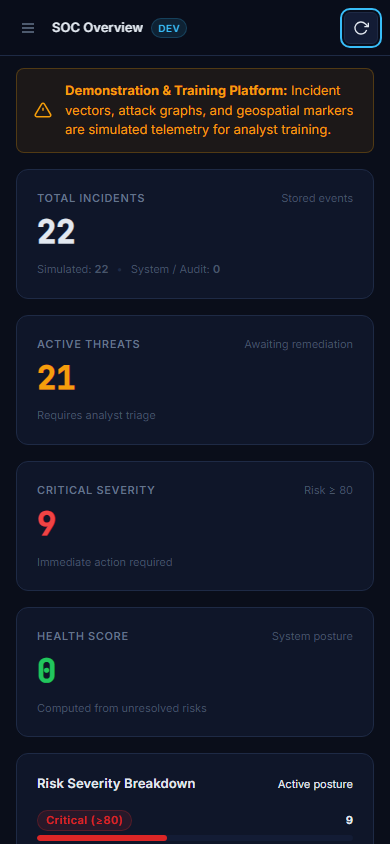
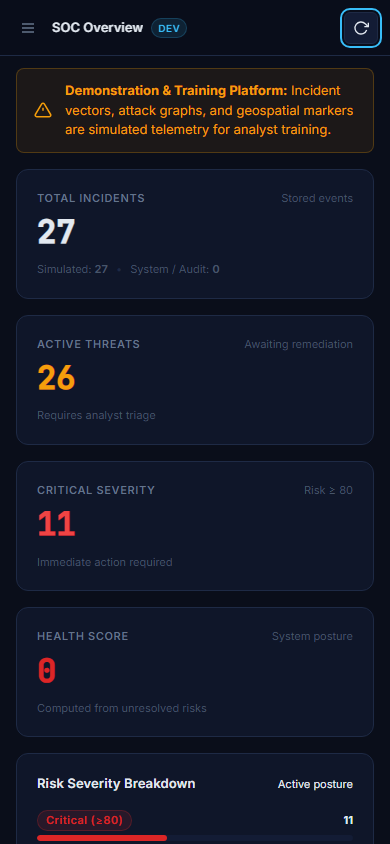
fix(ui): remove conflicting highlight-success class on health metric and enforce dynamic severity color system

diff --git a/frontend/js/dashboard.js b/frontend/js/dashboard.js
@@ -32,9 +32,17 @@
     if (healthEl) {
       const score = typeof metrics.health_score === 'number' ? metrics.health_score : (metrics.health_score ?? 100);
       window.UI.numberTick(healthEl, score);
-      if (score >= 80) healthEl.style.color = 'var(--color-success)';
-      else if (score >= 50) healthEl.style.color = 'var(--color-warning)';
-      else healthEl.style.color = 'var(--color-critical)';
+      healthEl.classList.remove('health-success', 'health-warning', 'health-critical', 'highlight-success', 'highlight-warning', 'highlight-danger');
+      if (score >= 80) {
+        healthEl.classList.add('health-success');
+        healthEl.style.setProperty('color', 'var(--color-success)', 'important');
+      } else if (score >= 50) {
+        healthEl.classList.add('health-warning');
+        healthEl.style.setProperty('color', 'var(--color-warning)', 'important');
+      } else {
+        healthEl.classList.add('health-critical');
+        healthEl.style.setProperty('color', 'var(--color-critical)', 'important');
+      }
     }
 
     // Mini counters

diff --git a/frontend/css/components.css b/frontend/css/components.css
@@ -237,6 +237,11 @@
 .highlight-success { color: var(--color-success) !important; }
 .highlight-cyan    { color: var(--color-accent) !important; }
 
+/* Dynamic Health Score Posture Classes */
+.health-critical   { color: var(--color-critical) !important; }
+.health-warning    { color: var(--color-warning) !important; }
+.health-success    { color: var(--color-success) !important; }
+
 /* ═══════════════════════════════════════════════════════
    BADGES
 ═══════════════════════════════════════════════════════ */

diff --git a/frontend/index.html b/frontend/index.html
@@ -238,7 +238,7 @@
                 <span class="metric-label">Health Score</span>
                 <span class="metric-sublabel">System posture</span>
               </div>
-              <div id="metric-health" class="metric-value highlight-success">100</div>
+              <div id="metric-health" class="metric-value">100</div>
               <div class="metric-footer text-muted">Computed from unresolved risks</div>
             </div>
           </div>

diff --git a/scripts/capture_evidence.py b/scripts/capture_evidence.py
@@ -253,23 +253,56 @@ def run_full_verification():
         passed_assertions += 1
         print(f"  -> Passed: All {len(nav_stats)} navigation items cleanly styled with zero default link artifacts.")
 
-        # ── Assertion 6: Zero Health Score Nullish Handling ───────
-        print("\n[Assert 6] Verifying Zero Health Score Fallback Regression (Score 0 Rendered, Not 100)...")
-        browser.evaluate("""
-            window.Dashboard.renderKPIs({
-                total_incidents: 25,
-                open_incidents: 20,
-                critical_count: 15,
-                health_score: 0,
-                simulated_count: 25,
-                telemetry_count: 0
-            });
+        # ── Assertion 6: Dynamic Health Score Posture & Color Verification ──
+        print("\n[Assert 6] Verifying Dynamic Health Score Posture & Color (0=Red, 50=Amber, 80=Green, 100=Green)...")
+        health_color_audit = browser.evaluate("""
+            (async () => {
+                const results = [];
+                const testCases = [
+                    { score: 0,   expectedRgb: 'rgb(220, 38, 38)', expectedClass: 'health-critical', desc: 'Critical Red (0-49)' },
+                    { score: 50,  expectedRgb: 'rgb(245, 158, 11)', expectedClass: 'health-warning',  desc: 'Warning Amber (50-79)' },
+                    { score: 80,  expectedRgb: 'rgb(34, 197, 94)',  expectedClass: 'health-success',  desc: 'Success Green (80-100)' },
+                    { score: 100, expectedRgb: 'rgb(34, 197, 94)',  expectedClass: 'health-success',  desc: 'Success Green (80-100)' }
+                ];
+
+                const healthEl = document.getElementById('metric-health');
+                for (const tc of testCases) {
+                    window.Dashboard.renderKPIs({
+                        total_incidents: 20,
+                        open_incidents: 10,
+                        critical_count: 5,
+                        health_score: tc.score,
+                        simulated_count: 20,
+                        telemetry_count: 0
+                    });
+
+                    // Await tick animation
+                    await new Promise(r => setTimeout(r, 700));
+
+                    const renderedText = healthEl.textContent.trim();
+                    const computedColor = window.getComputedStyle(healthEl).color;
+                    const classList = Array.from(healthEl.classList);
+
+                    results.push({
+                        score: tc.score,
+                        renderedText,
+                        computedColor,
+                        expectedRgb: tc.expectedRgb,
+                        colorMatches: (computedColor === tc.expectedRgb),
+                        hasExpectedClass: classList.includes(tc.expectedClass),
+                        classList
+                    });
+                }
+                return results;
+            })()
         """)
-        time.sleep(0.8)
-        rendered_health = browser.evaluate("document.getElementById('metric-health').textContent.trim()")
-        assert rendered_health == "0", f"Expected health score '0', got '{rendered_health}' (possible || 100 bug regression)"
+        for res in health_color_audit:
+            print(f"  Score {res['score']:>3}: rendered='{res['renderedText']}', color={res['computedColor']} (expected {res['expectedRgb']}), classes={res['classList']}")
+            assert res["renderedText"] == str(res["score"]), f"Score {res['score']} text mismatch: {res['renderedText']}"
+            assert res["colorMatches"], f"Score {res['score']} color mismatch: got {res['computedColor']}, expected {res['expectedRgb']}"
+            assert res["hasExpectedClass"], f"Score {res['score']} missing expected CSS class"
         passed_assertions += 1
-        print("  -> Passed: Zero health score renders strictly as 0.")
+        print("  -> Passed: All 4 health score thresholds (0, 50, 80, 100) verified with exact computed color RGB assertions.")
 
         # Re-trigger regular simulation telemetry for overview view
         print("\n[+] Seeding Telemetry Simulations for Overview View...")
